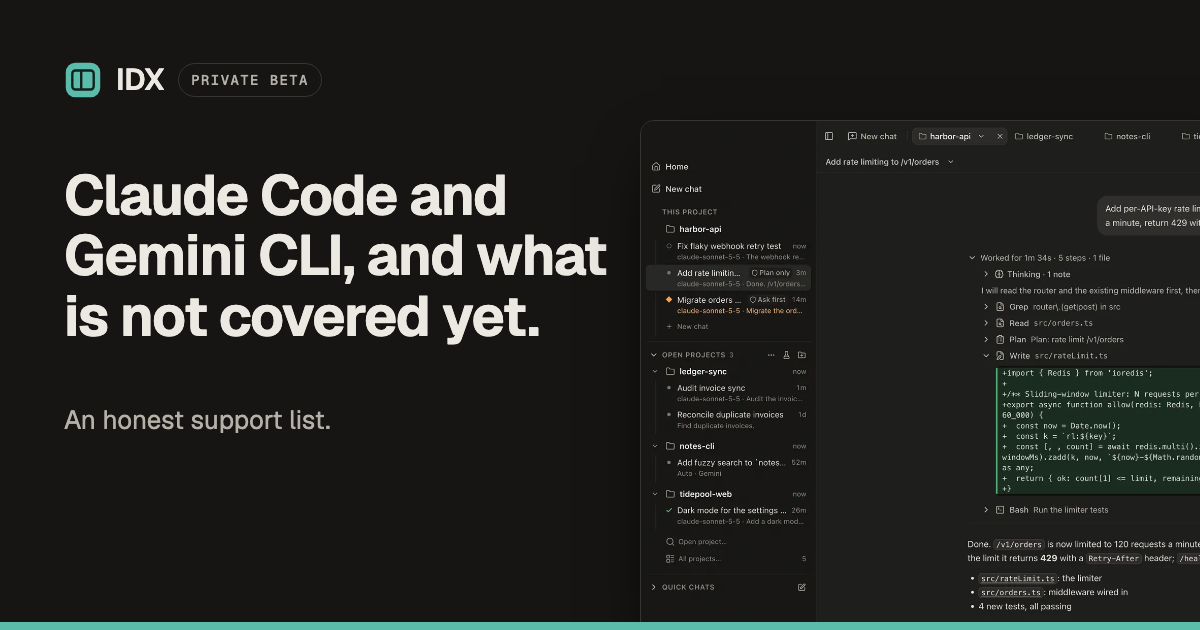
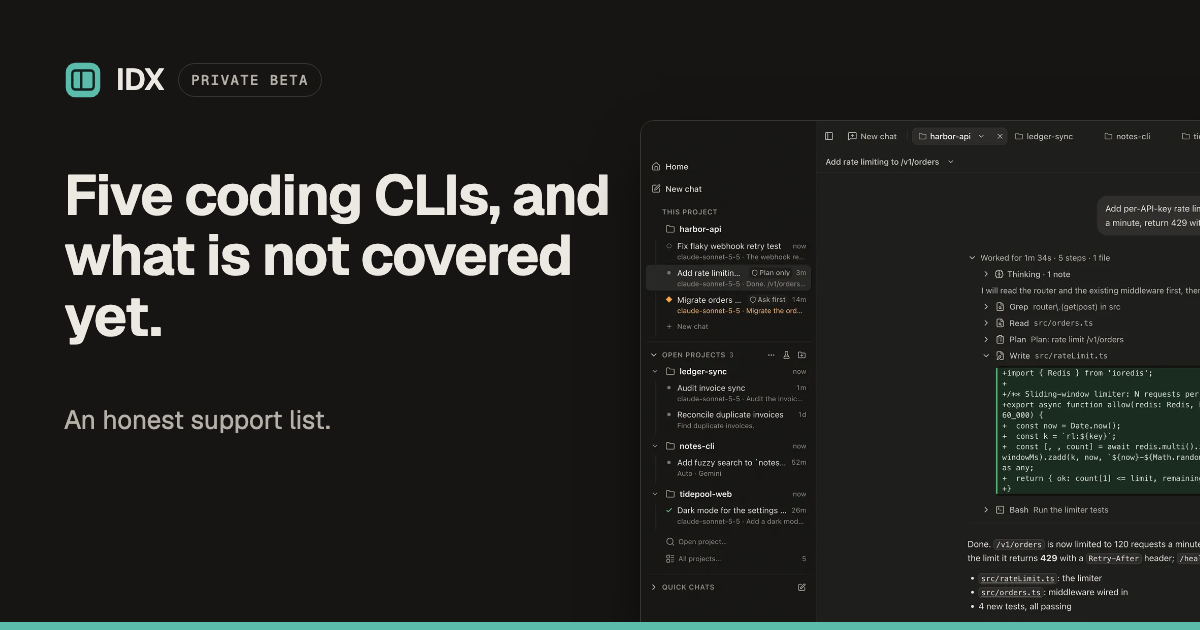
IDX-490: five-CLI support page, nav and copy; changelog to v0.1.41 (#6)
Claude-Session: https://claude.ai/code/session_016BcN68951ToWogPm3q9fyQ

Changed region(s): [[0.0308, 0.2714, 0.5242, 0.5429]]

diff --git a/src/static/who-its-for.html b/src/static/who-its-for.html
@@ -2,14 +2,14 @@
   <section class="tight" style="padding-top:0">
     <h2 style="font-size:1.6rem;margin-bottom:1rem">It is for you if</h2>
     <ul class="ticks" style="max-width:46rem">
-      <li>You run AI coding agents (Claude Code, Gemini CLI) on many projects, most days.</li>
+      <li>You run AI coding agents (Claude Code, Gemini CLI, Antigravity, Grok Build or Cursor CLI) on many projects, most days.</li>
       <li>You live in the terminal today and want less chaos, not a new way of working.</li>
       <li>You are on a Mac, ideally with a big screen or two, and like one project per window.</li>
     </ul>
     <h2 style="font-size:1.6rem;margin:2rem 0 1rem">It is not for you, yet, if</h2>
     <ul class="dashes" style="max-width:46rem">
       <li>You are not on a Mac. It is Mac only, Apple Silicon.</li>
-      <li>You do not have Claude Code or Gemini CLI installed and signed in. IDX ships neither.</li>
+      <li>You have none of those five CLIs installed and signed in. IDX ships none of them.</li>
       <li>You want an AI model sold to you. IDX is not one.</li>
       <li>You run one small project and are happy in one terminal.</li>
       <li>You need a full code editor. Files are read-only for now.</li>
